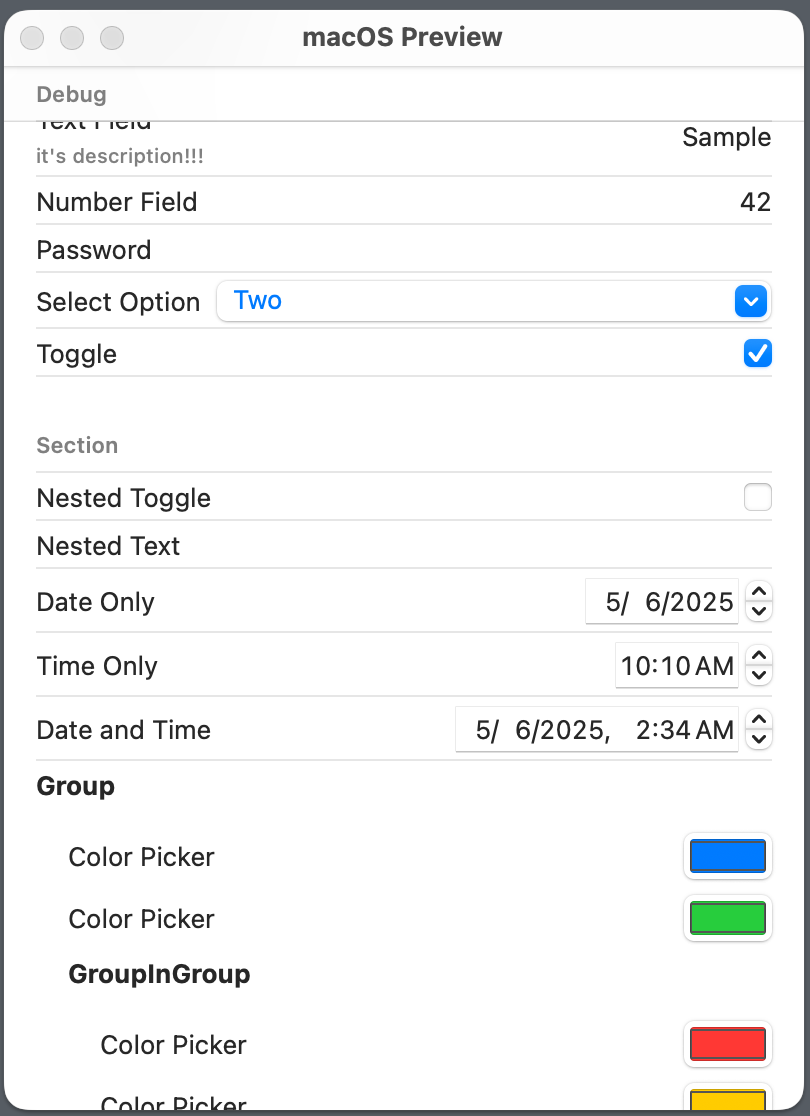
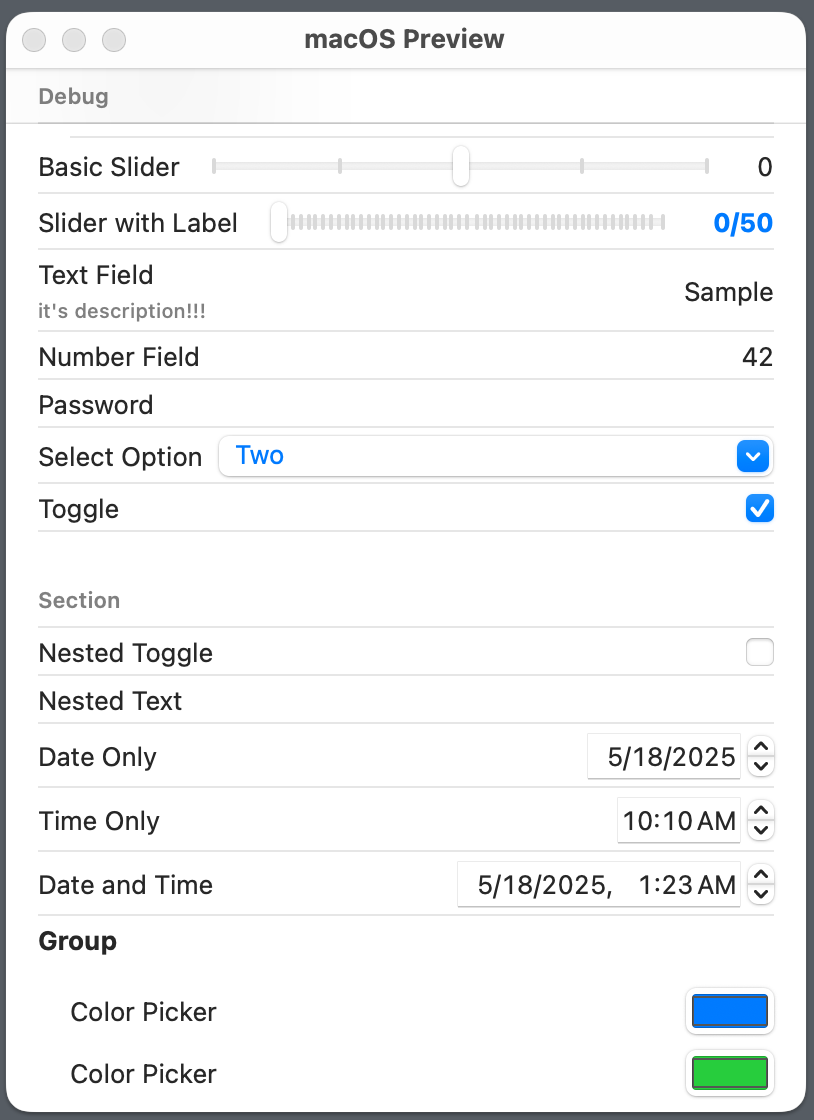
1.1.0

diff --git a/Sources/SetThings/SetThings.swift b/Sources/SetThings/SetThings.swift
@@ -76,27 +76,26 @@ struct ValueSummaryView: View {
         .padding()
     }
 }
+
 #Preview("ThingType Showcase") {
     SetThingsPreviewWrapper()
 }
-#if os(macos)
 @available(macOS 14.0, *)
 #Preview("macOS Preview", traits: .fixedLayout(width: 400, height: 550)) {
     SetThingsPreviewWrapper()
 }
-#endif
 struct SetThingsPreviewWrapper: View {
     @State var editedValues: [String: Any] = [:]
 
     var body: some View {
         SetThings(items: [
-            MinimalThingItem(key:"sliderBasic" , name: "Basic Slider", type: .slider(range: 0...100, defaultValue: 42)),
-            MinimalThingItem(key:"sliderWithLabel" , name: "Slider with Label", type: .slider(range: -50...50, defaultValue: 0) { value in
-                AnyView(Text("\(value)점").foregroundColor(.blue).font(.headline))
-            }),
             MinimalThingItem(name: "Debug", type: .section([
                 MinimalThingItem(name: "", type: .block(AnyView(ValueSummaryView(values: $editedValues)))),
             ])),
+            MinimalThingItem(key:"sliderBasic" , name: "Basic Slider", type: .slider(range: -2...2, defaultValue: 0)),
+            MinimalThingItem(key:"sliderWithLabel" , name: "Slider with Label", type: .slider(range: 0...50, defaultValue: 0) { value in
+                AnyView(Text("\(value)/50").foregroundColor(.blue).font(.headline))
+            }),
             MinimalThingItem(key:"textField" , name: "Text Field", type: .text(placeholder: "Enter text", defaultValue: "Sample"), description: "it's description!!!"),
             MinimalThingItem(key:"numberField" , name: "Number Field", type: .number(placeholder: "1234", defaultValue: Decimal(42))),
             MinimalThingItem(key:"password" , name: "Password", type: .password(placeholder: "Secret")),

diff --git a/Sources/SetThings/ThingRowView.swift b/Sources/SetThings/ThingRowView.swift
@@ -12,6 +12,7 @@ struct ThingRowView: View {
 
     @State private var stringValue: String = ""
     @State private var boolValue: Bool = false
+    @State private var intValue: Int = 0
     @State private var dateValue: Date = Date()
     @State private var colorValue: Color = .clear
     

diff --git a/README.md b/README.md
@@ -1,5 +1,5 @@
 # SetThings
->“Spend less time on setting screens. Spend more time on meaning.” — Aristotle
+>"Settings shouldn’t be a thing. Just set your things." — *Aristotle*
 
 A lightweight, flexible preference/settings view builder for SwiftUI.
 Supports text, numbers, switches, dates, pickers, custom views and nesting.
@@ -18,6 +18,7 @@ Runs on iOS and macOS
     - .password
     - .selectString
     - .color
+    - .slider
     - .view
     - .block
     - .group
@@ -75,6 +76,7 @@ SetThings(items: [
 | .time | Time only (TimeOnly) |
 | .dateAndTime | Full DatePicker |
 | .color | Color picker |
+| .slider | Range slider with customizable labels |
 | .view | Static view (no interactivity) |
 | .block | Dynamic view with access to live values |
 | .group | Indented group (can be nested) |
@@ -90,6 +92,10 @@ SetThings(items: [
             MinimalThingItem(name: "Debug", type: .section([
                 MinimalThingItem(name: "", type: .block(AnyView(ValueSummaryView(values: $editedValues)))),
             ])),
+            MinimalThingItem(key:"sliderBasic" , name: "Basic Slider", type: .slider(range: -2...2, defaultValue: 0)),
+            MinimalThingItem(key:"sliderWithLabel" , name: "Slider with Label", type: .slider(range: 0...50, defaultValue: 0) { value in
+                AnyView(Text("\(value)/50").foregroundColor(.blue).font(.headline))
+            }),
             MinimalThingItem(key:"textField" , name: "Text Field", type: .text(placeholder: "Enter text", defaultValue: "Sample"), description: "it's description!!!"),
             MinimalThingItem(key:"numberField" , name: "Number Field", type: .number(placeholder: "1234", defaultValue: Decimal(42))),
             MinimalThingItem(key:"password" , name: "Password", type: .password(placeholder: "Secret")),
